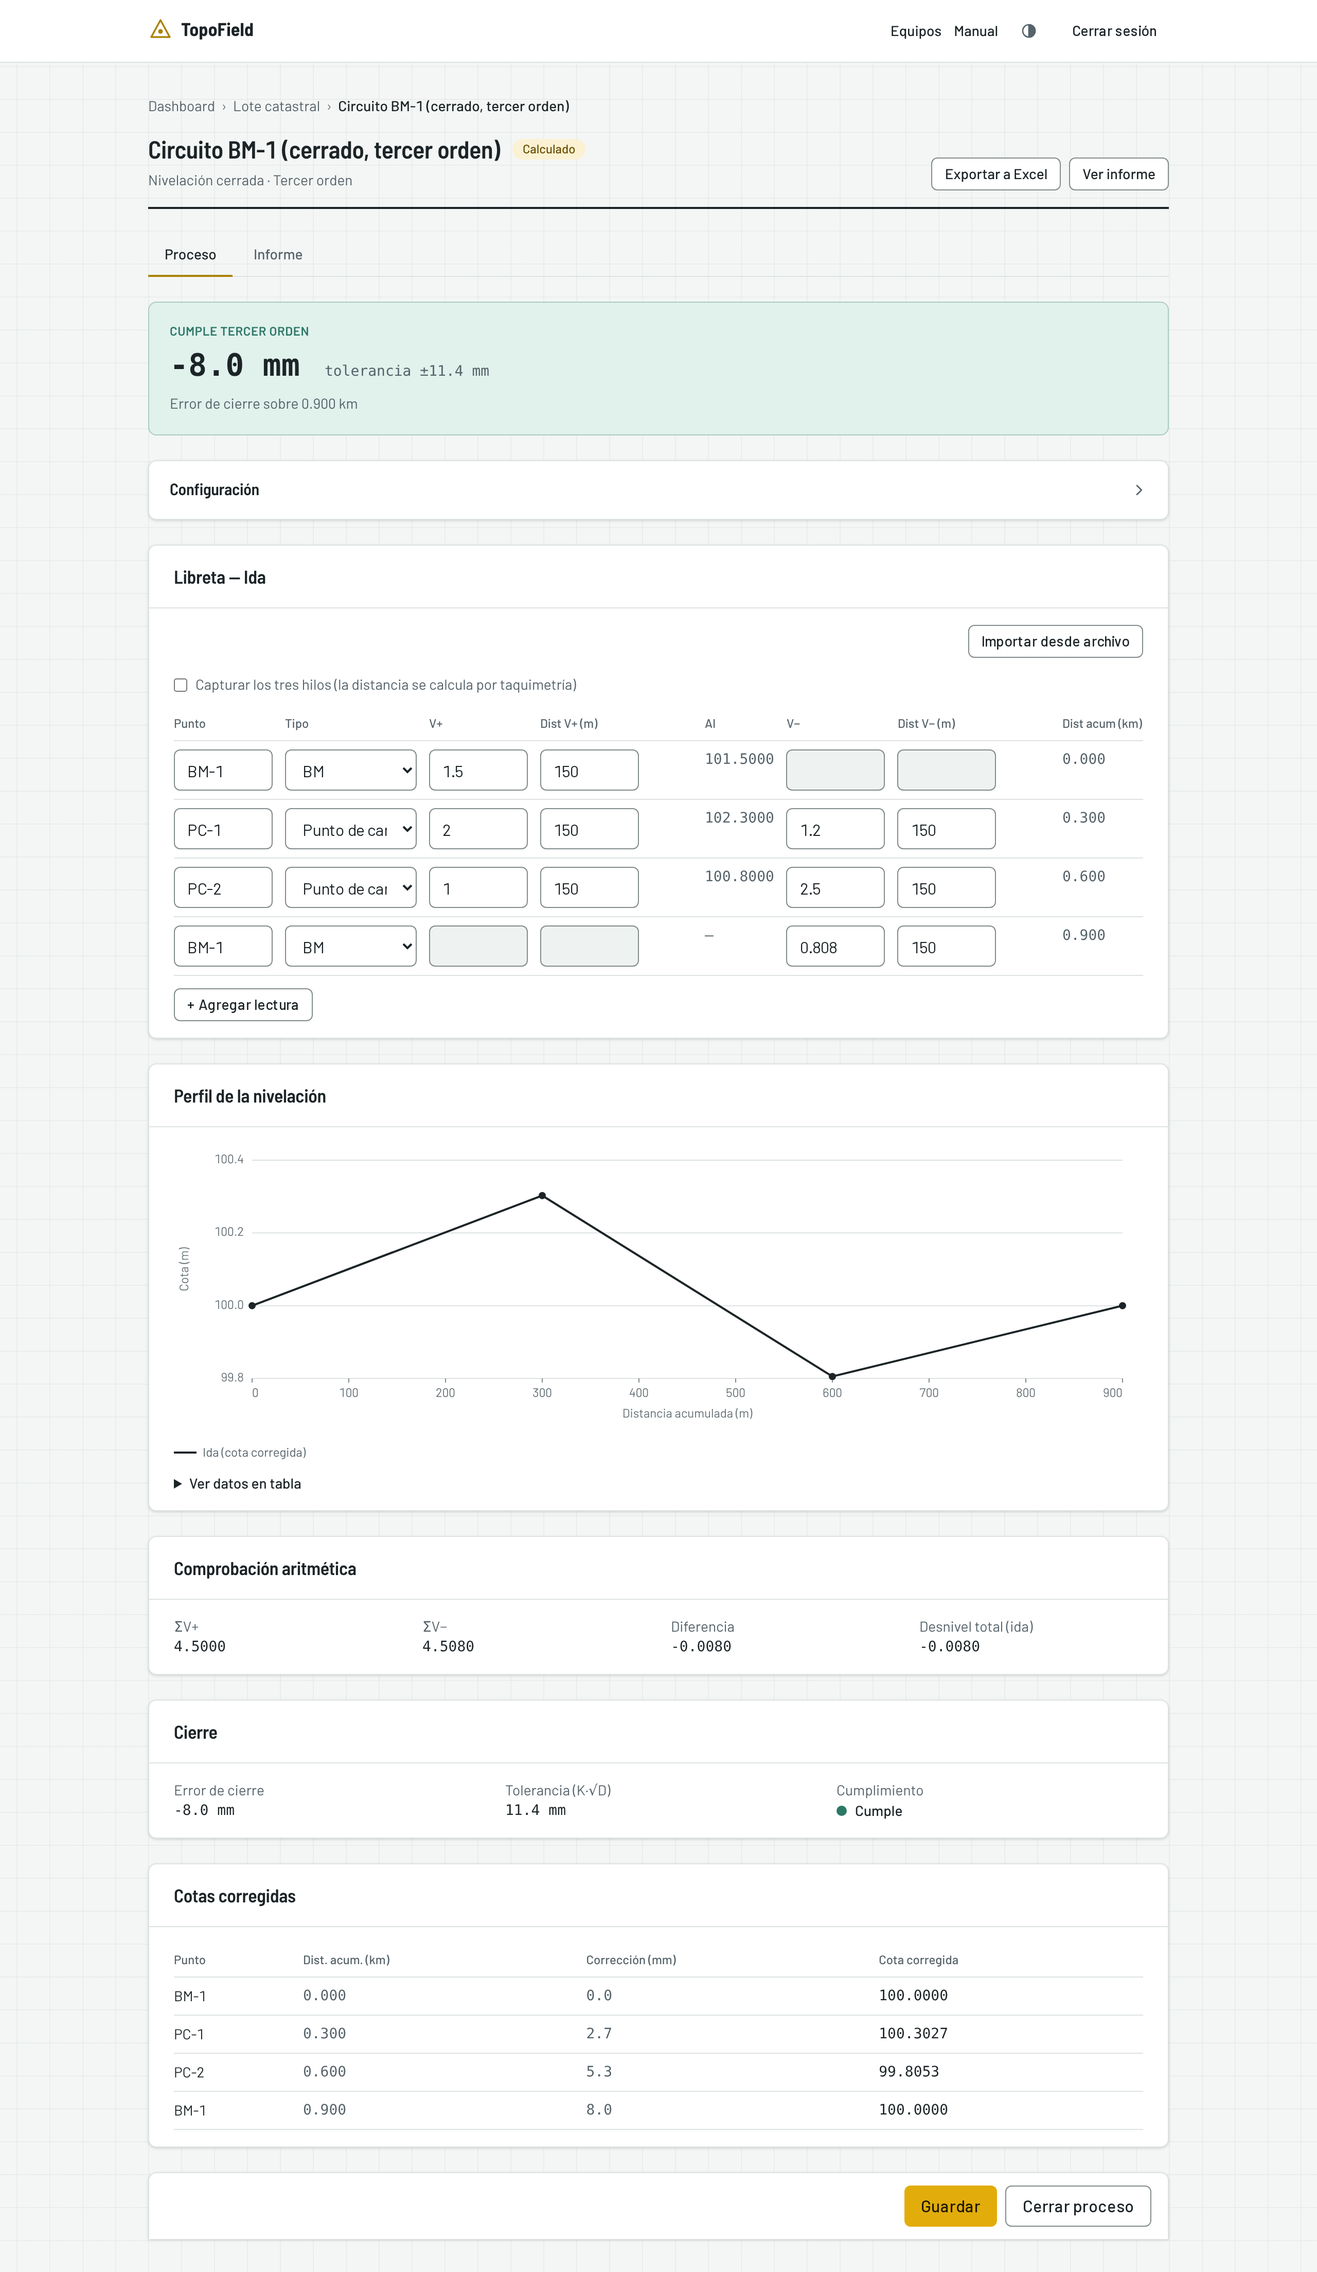
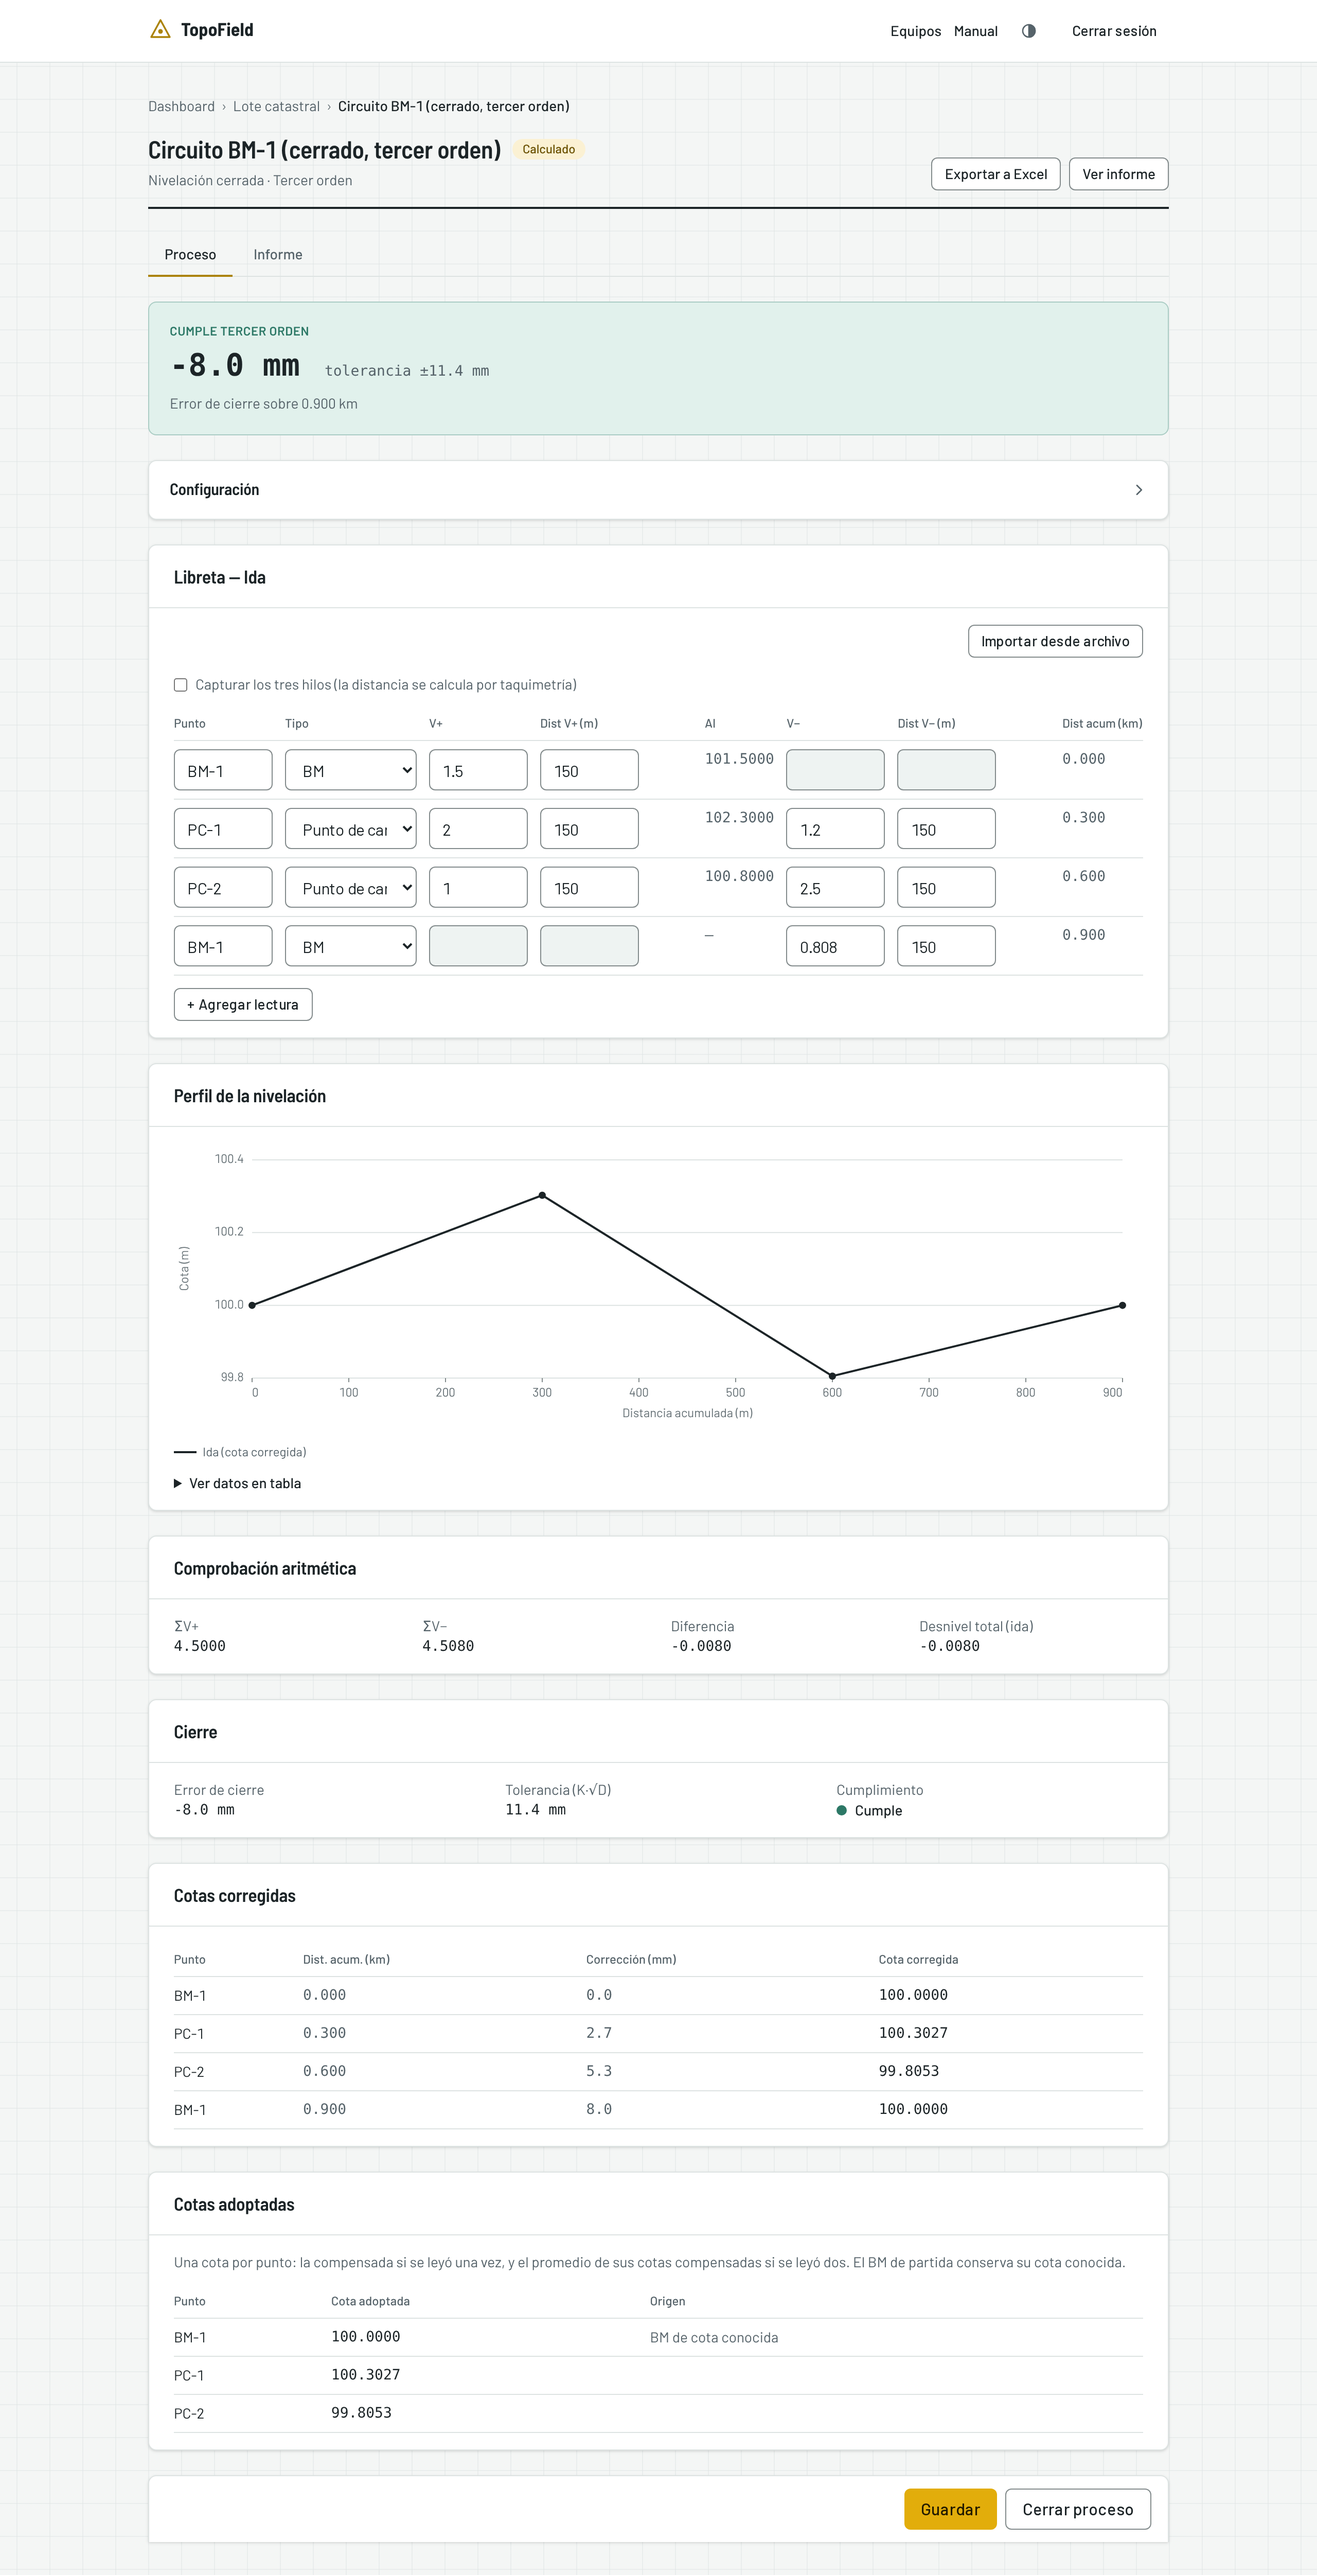
docs: capturas con la tabla de cotas adoptadas
El editor de nivelación y el informe imprimible, con la tabla nueva.

diff --git a/src/app/(app)/manual/manual-data.ts b/src/app/(app)/manual/manual-data.ts
@@ -104,10 +104,10 @@ export const CAPTURAS = {
   },
   editorNivelacion: {
     src: "/manual/12-editor-nivelacion.png",
-    alt: "Editor de nivelación completo: veredicto, libreta, perfil, comprobación aritmética, cierre y cotas corregidas.",
+    alt: "Editor de nivelación completo: veredicto, libreta, perfil, comprobación aritmética, cierre, cotas corregidas y cotas adoptadas.",
     pie: "Circuito cerrado que cumple la tolerancia: el BM final corrige exacto a su cota conocida.",
     width: 2560,
-    height: 4414,
+    height: 5004,
   },
   nuevoLugar: {
     src: "/manual/13-nuevo-lugar.png",
@@ -185,7 +185,7 @@ export const CAPTURAS = {
     src: "/manual/19-informe-imprimible.png",
     alt: "Informe maquetado para imprimir: portada con los datos del proyecto, índice, sección del proceso con sus resultados, resumen consolidado y registro de cierre.",
     width: 2560,
-    height: 3500,
+    height: 3842,
   },
   temaOscuro: {
     src: "/manual/29-tema-oscuro.png",
